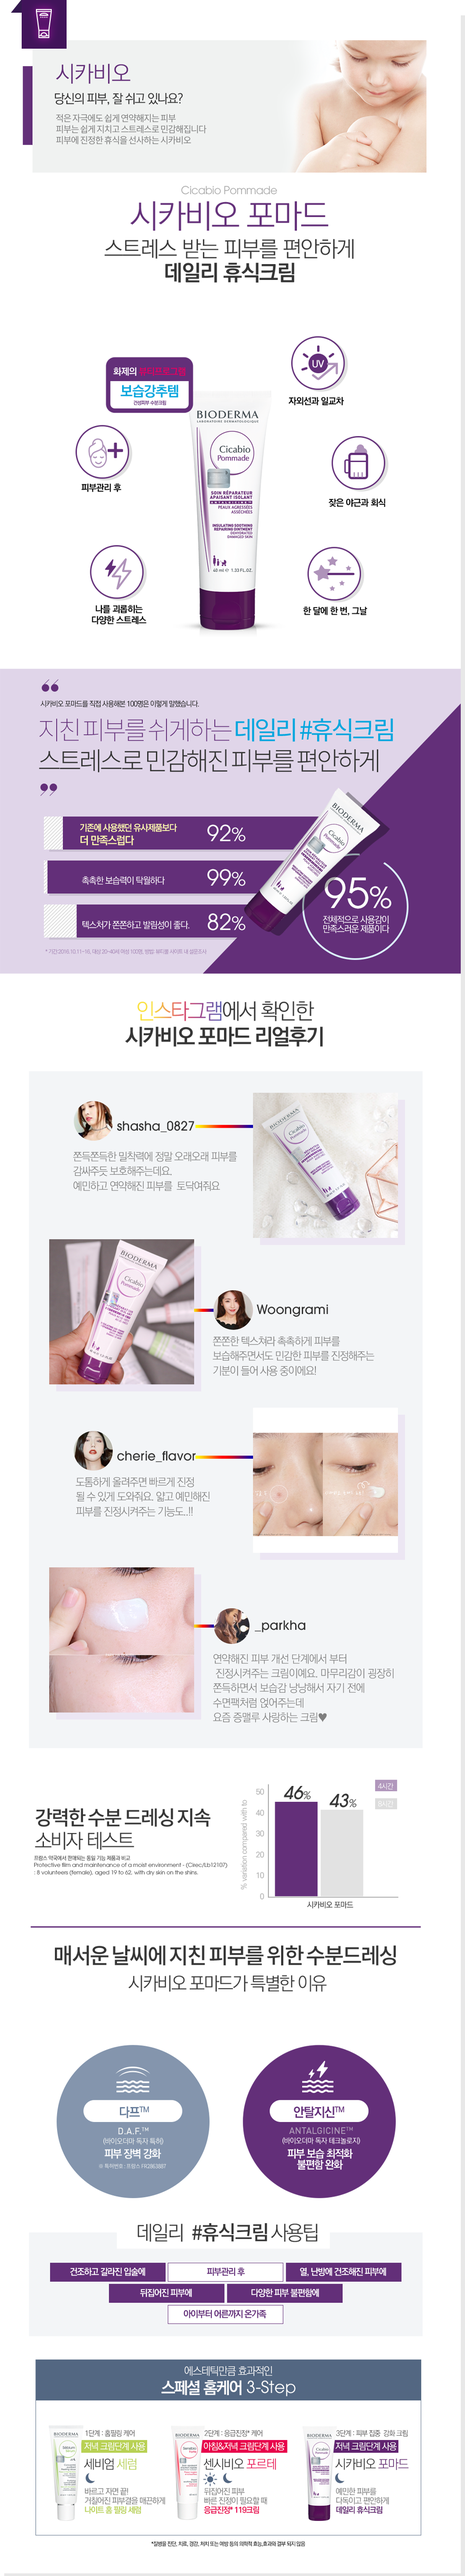
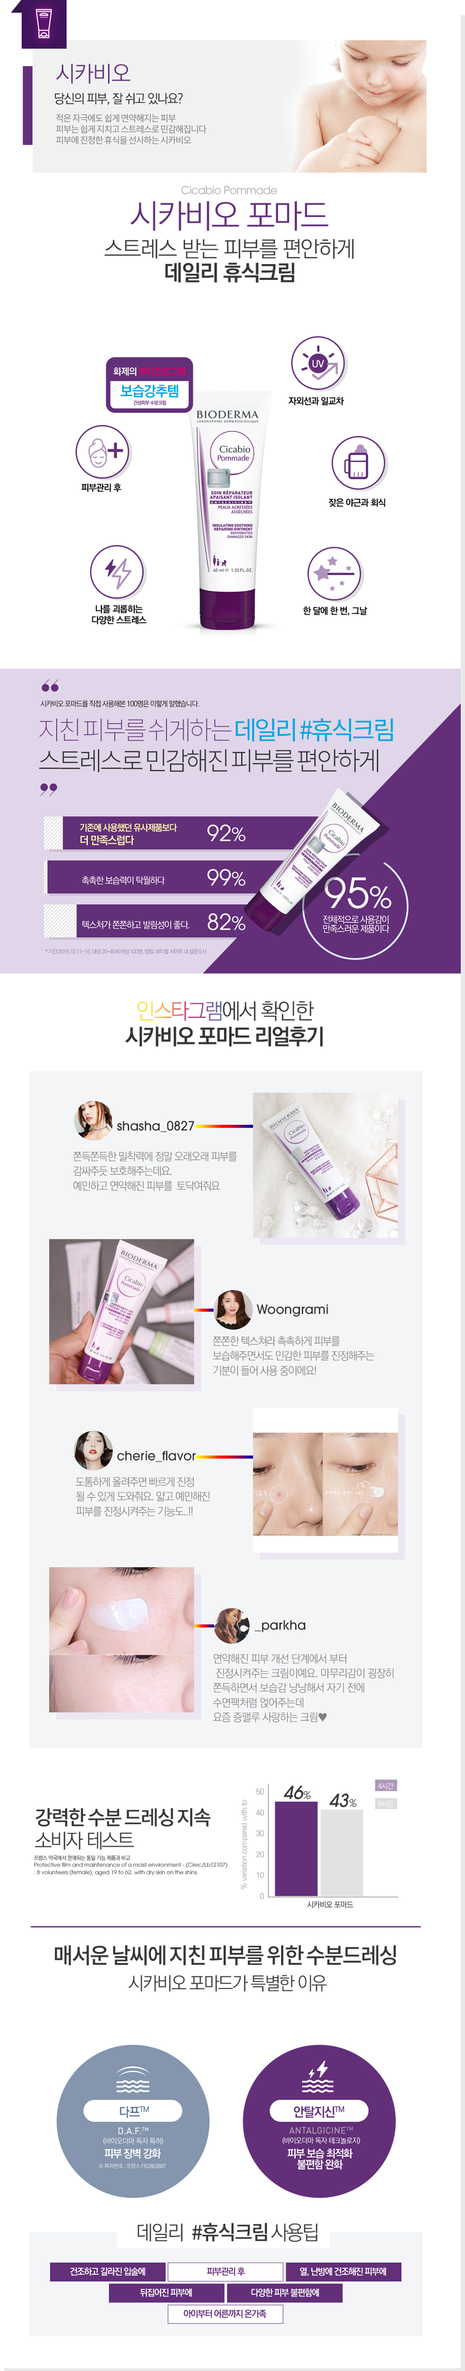
푸터 폰트 수정, 인포 페이지 이미지 교체

diff --git a/css/style.css b/css/style.css
@@ -41,13 +41,15 @@
 }
 html, body {
 	min-width: 1000px;
+	height: 100%;
 	font-family: 'Noto Sans Korean';
 }
 .content.main {
 	position: relative;
 /*	background: url(../images/main_bg.png) no-repeat center 0;*/
 	background: url(../images/main_bg.png) no-repeat center bottom;
-	background-size: auto;
+/*	background-size: auto;*/
+	background-size: cover;
 	width: 100%;
 	overflow: hidden;
 }
@@ -149,7 +151,7 @@ html, body {
 	position: absolute;
 	/* top: 116px;
 	left: 44px; */
-	top: 92px;
+	top: 88px;
 	left: 20px;
 }
 .content.main .content-wrap .inner .desc-area .desc1 {
@@ -799,8 +801,9 @@ html, body {
 .content.info {
 	position: relative;
 	background: url(../images/info_bg.png) no-repeat center 0;
-	background-size: auto;
+	background-size: cover;
 	width: 100%;
+	overflow-x: hidden;
 }
 .content.info .header-wrap {
 	height: 116px;
@@ -1354,6 +1357,9 @@ z-index: -1;
 	.content.main .content-wrap .inner .desc-area .desc2 {
 		font-size: 16px;
 		line-height: 20px;
+	}
+	.content.main .content-wrap .inner .goods-area {
+		top: 131px;
 	}
 	.content.main .content-wrap .inner .btn-area {
 		margin: 37px 0 0 63px;

diff --git a/info.php b/info.php
@@ -57,7 +57,7 @@
                         </a>
                     </div>
                     <div>
-                        <img src="./images/info_product.png" alt="">
+                        <img src="./images/info_product.png" alt="" style="display: block; margin: 0 auto;">
                     </div>
 <?
     // include_once "share_area.php";

diff --git a/index.php b/index.php
@@ -19,7 +19,7 @@ if ($mobileYN == "MOBILE")
 include_once "head.php";
 ?>
 <body>
-	<div class="container">
+	<div class="container" style="height: 100%;">
 		<div class="content main">
 			<div class="header-wrap">
 				<div class="inner">
